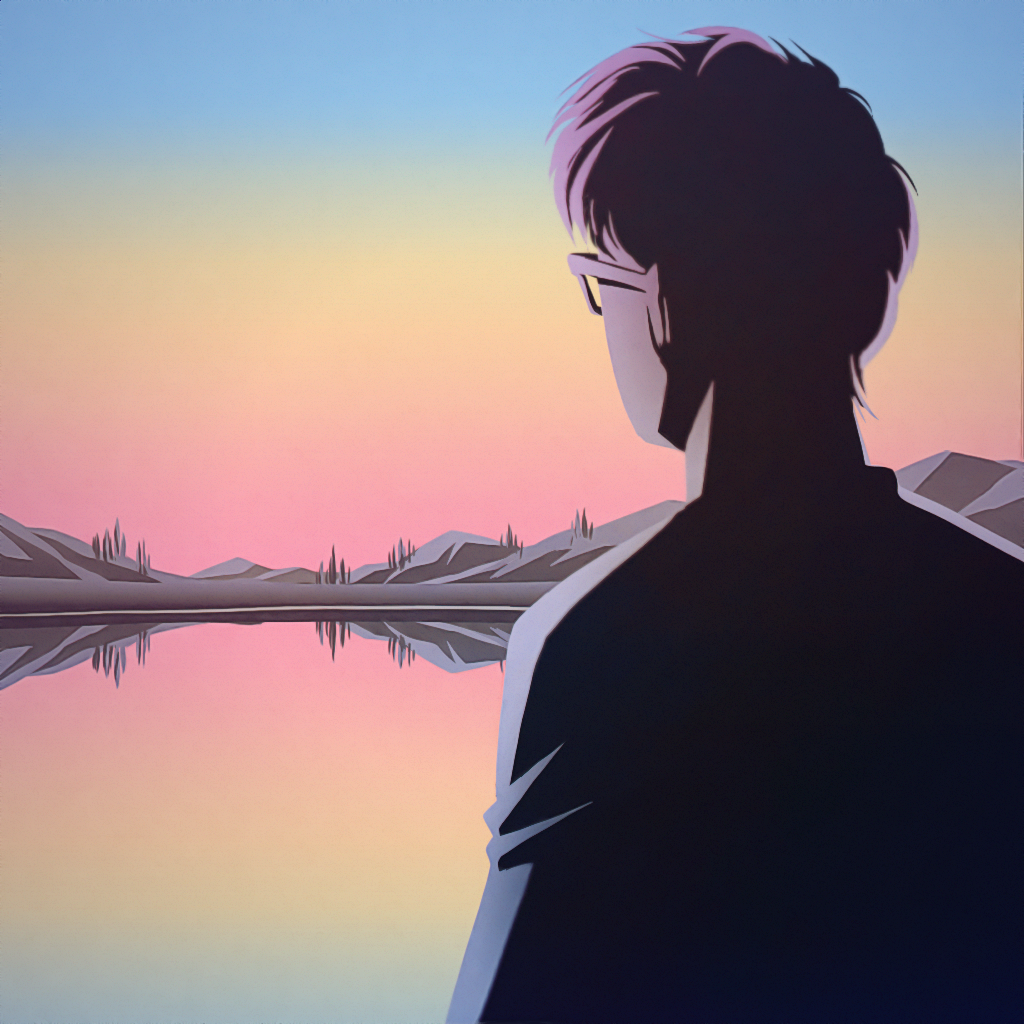
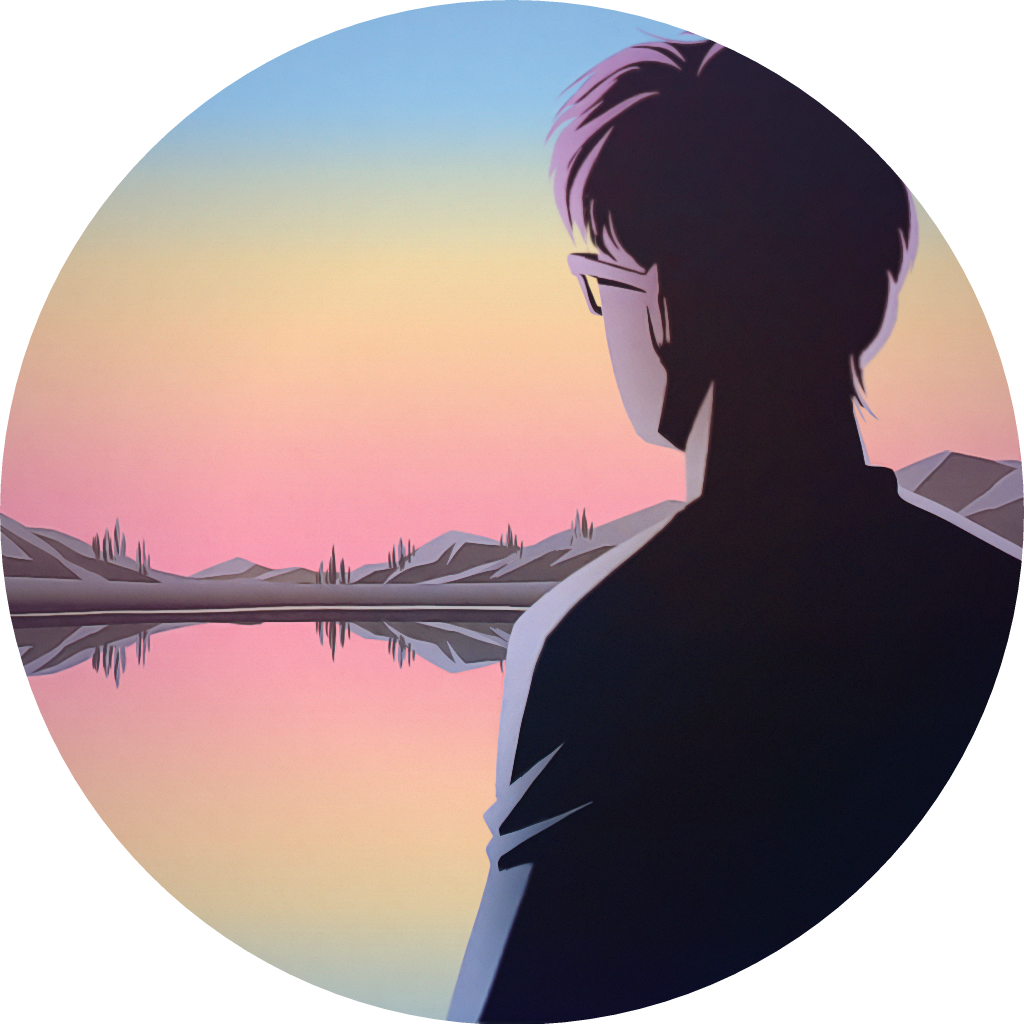
New placeholder

diff --git a/index.html b/index.html
@@ -5,10 +5,29 @@
   <meta name="viewport" content="width=device-width, initial-scale=1.0">
   <title>Ollie Shadbolt</title>
   <link rel="stylesheet" href="default.css">
+  <link rel="icon" type="image/png" href="icon.png"/>
 </head>
 <body>
 
-<img class="icon" src="icon.png" alt="Icon">
+<div>
+</div>
+<div>
+  <img src="icon.png" alt="Icon">
+</div>
+<div>
+</div>
+<div>
+<pre>
+<b>Name:</b>     Ollie Shadbolt
+<b>Pronouns:</b> He/Him
+<b>Location:</b> Dover, UK
+
+<b>Links:</b>
+<a href="https://twitter.com/denebolart">Icon Artist</a>
+<a href="https://twitter.com/ollieshadbolt">Twitter</a>
+<a href="https://github.com/ollieshadbolt">GitHub</a>
+<a href="mailto:ollie@shadbo.lt">Email</a>
+</pre>
 
 </body>
 </html>

diff --git a/default.css b/default.css
@@ -1,17 +1,29 @@
 html, body {
-    height: 100%;
+	height: 100%;
 }
 
 body {
-    background-color: #D0B3AD;
-    margin: 0;
-    display: flex;
-    justify-content: center;
-    align-items: center;
+	background-color: #D0B3AD;
+	margin: 0;
 }
 
-img.icon {
-    width: auto;
-    height: 50%;
-    border-radius: 50%;
+div {
+	height: 20%;
+	display: flex;
+	justify-content: center;
+	align-items: center;
+	font-family: "Lucida Console", Monaco, monospace;
+	white-space: pre-line;
+	font-size: 2em;
+}
+
+
+a {
+	text-decoration: none;
+	color: black;	
+}
+
+img {
+	height: 100%;
+	width: auto;
 }
